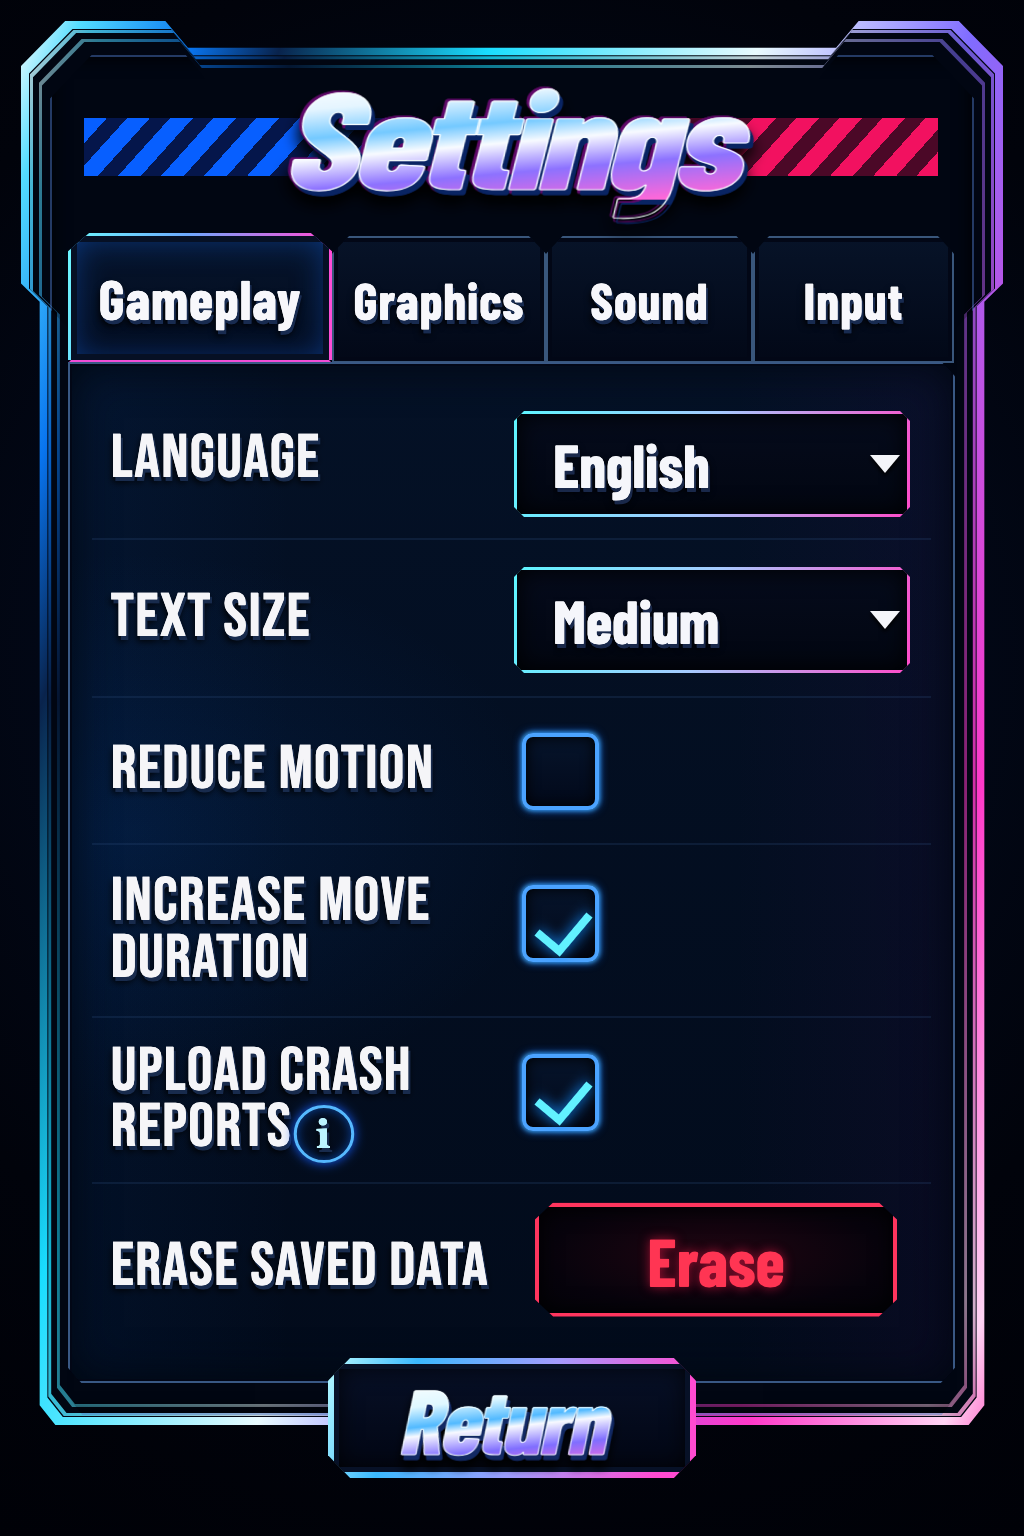
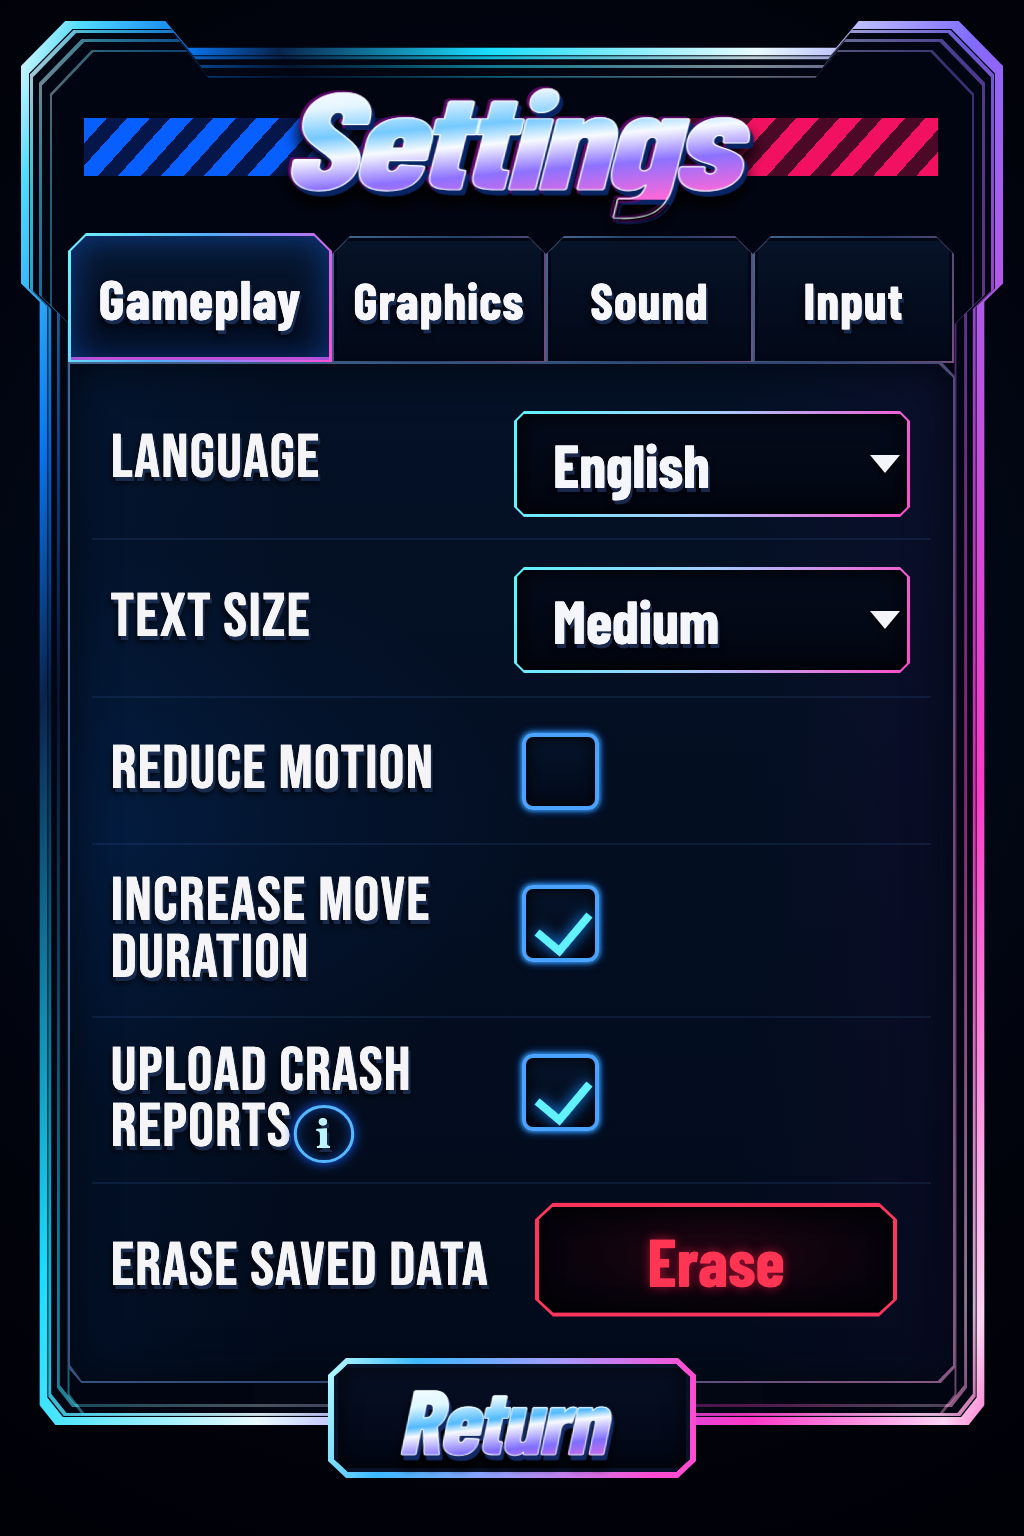
fix: render continuous neon borders

diff --git a/app/components/SettingsControls.tsx b/app/components/SettingsControls.tsx
@@ -1,5 +1,6 @@
 import type { ReactNode } from "react";
 import { displayFont } from "./styles";
+import { actionInnerClip, actionOuterClip, ClippedInset, controlInnerClip, controlOuterClip } from "./ClippedInset";
 
 type BaseProps = { label: ReactNode; first?: boolean; offsetY?: number; rowHeight?: number };
 
@@ -7,28 +8,49 @@ export function SelectControl({ label, options, value, onChange, first = false, 
   return (
     <SettingRow first={first} label={label} rowHeight={158}>
       <div style={{ position: "relative", display: "flex", alignItems: "center", height: "100%", transform: `translateY(${offsetY}px)` }}>
-        <select
-          aria-label={String(label)}
-          value={value}
-          onChange={(event) => onChange(event.target.value)}
+        <div
+          aria-hidden="true"
           style={{
+            position: "relative",
             boxSizing: "border-box",
             width: 396,
             height: 106,
-            appearance: "none",
-            border: "3px solid transparent",
-            clipPath: "polygon(10px 0, calc(100% - 10px) 0, 100% 10px, 100% calc(100% - 10px), calc(100% - 10px) 100%, 10px 100%, 0 calc(100% - 10px), 0 10px)",
-            padding: "0 74px 0 36px",
-            outline: 0,
+            display: "flex",
+            alignItems: "center",
+            clipPath: controlOuterClip,
+            padding: "0 74px 0 39px",
             color: "#f5f6fb",
-            background: "linear-gradient(180deg, #050b1c, #020611) padding-box, linear-gradient(106deg, #5df5ff, #a5cbff 48%, #ff4bc9) border-box",
-            boxShadow: "inset 0 0 24px #000, 0 0 12px rgba(42,103,255,.26)",
+            background: "linear-gradient(106deg, #5df5ff, #a5cbff 48%, #ff4bc9)",
+            filter: "drop-shadow(0 0 6px rgba(42,103,255,.38))",
             fontFamily: "'Barlow Condensed', Impact, sans-serif",
             fontWeight: 700,
             fontSize: 60,
             lineHeight: 1,
             textShadow: "2px 4px 0 #19284a, 0 4px 7px #000",
+            pointerEvents: "none",
+          }}
+        >
+          <ClippedInset inset={3} clipPath={controlInnerClip} background="linear-gradient(180deg, #050b1c, #020611)" boxShadow="inset 0 0 24px #000" />
+          <span style={{ position: "relative", zIndex: 1 }}>{value}</span>
+        </div>
+        <select
+          aria-label={String(label)}
+          value={value}
+          onChange={(event) => onChange(event.target.value)}
+          style={{
+            position: "absolute",
+            left: 0,
+            top: "50%",
+            zIndex: 3,
+            width: 396,
+            height: 106,
+            appearance: "none",
+            border: 0,
+            padding: 0,
+            outline: 0,
+            opacity: 0,
             cursor: "pointer",
+            transform: "translateY(-50%)",
           }}
         >
           {options.map((option) => <option key={option}>{option}</option>)}
@@ -55,8 +77,9 @@ export function ToggleControl({ checked, label, ariaLabel, onChange, withInfo = 
 export function EraseControl() {
   return (
     <SettingRow label="Erase Saved Data" last>
-      <button type="button" style={{ boxSizing: "border-box", width: 362, height: 114, marginLeft: 21, border: "4px solid #ff355e", clipPath: "polygon(5% 0, 95% 0, 100% 15%, 100% 85%, 95% 100%, 5% 100%, 0 85%, 0 15%)", color: "#ff3553", background: "radial-gradient(ellipse at 50% 45%, #200511, #07030c 67%, #020208)", boxShadow: "inset 0 0 22px #000, 0 0 15px rgba(255,20,78,.5)", fontFamily: "'Barlow Condensed', Impact, sans-serif", fontWeight: 700, fontSize: 67, textShadow: "0 0 11px rgba(255,25,76,.55)", cursor: "pointer", transform: "translateY(-8px)" }}>
-        Erase
+      <button type="button" style={{ position: "relative", boxSizing: "border-box", width: 362, height: 114, marginLeft: 21, border: 0, padding: 0, clipPath: actionOuterClip, color: "#ff3553", background: "#ff355e", filter: "drop-shadow(0 0 9px rgba(255,20,78,.55))", fontFamily: "'Barlow Condensed', Impact, sans-serif", fontWeight: 700, fontSize: 67, textShadow: "0 0 11px rgba(255,25,76,.55)", cursor: "pointer", transform: "translateY(-8px)" }}>
+        <ClippedInset inset={4} clipPath={actionInnerClip} background="radial-gradient(ellipse at 50% 45%, #200511, #07030c 67%, #020208)" boxShadow="inset 0 0 22px #000" />
+        <span style={{ position: "relative", zIndex: 1 }}>Erase</span>
       </button>
     </SettingRow>
   );

diff --git a/app/components/SettingsScreen.tsx b/app/components/SettingsScreen.tsx
@@ -5,6 +5,7 @@ import { ConceptFrame } from "./ConceptFrame";
 import { ReturnButton } from "./ReturnButton";
 import { EraseControl, SelectControl, ToggleControl } from "./SettingsControls";
 import { SettingsTabs } from "./SettingsTabs";
+import { ClippedInset } from "./ClippedInset";
 
 const DESIGN_WIDTH = 1024;
 const DESIGN_HEIGHT = 1536;
@@ -91,22 +92,27 @@ export function SettingsScreen() {
                 position: "relative",
                 boxSizing: "border-box",
                 height: 1021,
-                border: "2px solid #395884",
+                overflow: "hidden",
                 clipPath:
                   "polygon(0 0, 98.5% 0, 100% 1.4%, 100% 98.5%, 98.4% 100%, 1.5% 100%, 0 98.5%)",
-                padding: "16px 22px 30px",
-                background:
-                  "radial-gradient(ellipse at 7% 46%, rgba(5,83,184,.15), transparent 36%), linear-gradient(90deg, rgba(0,83,190,.07), transparent 25% 75%, rgba(126,0,145,.055)), linear-gradient(180deg, #041126 0%, #020b1b 100%)",
-                boxShadow:
-                  "inset 0 0 0 2px #020716, inset 0 0 45px #000710, 0 0 9px rgba(28,89,180,.28)",
+                background: "linear-gradient(110deg, #446690, #2c456f 54%, #875984)",
+                filter: "drop-shadow(0 0 5px rgba(28,89,180,.28))",
               }}
             >
-              <SelectControl first label="Language" value={language} options={["English", "Español", "Français", "Deutsch"]} onChange={setLanguage} offsetY={5} />
-              <SelectControl label="Text Size" value={textSize} options={["Small", "Medium", "Large"]} onChange={setTextSize} offsetY={2} />
-              <ToggleControl checked={reduceMotion} label="Reduce Motion" onChange={setReduceMotion} rowHeight={147} offsetY={1} />
-              <ToggleControl checked={increaseMoveDuration} label={<>Increase Move<br />Duration</>} ariaLabel="Increase Move Duration" onChange={setIncreaseMoveDuration} rowHeight={173} offsetY={-7} />
-              <ToggleControl checked={uploadCrashReports} label={<>Upload Crash<br />Reports</>} ariaLabel="Upload Crash Reports" onChange={setUploadCrashReports} withInfo rowHeight={166} offsetY={-8} />
-              <EraseControl />
+              <ClippedInset
+                inset={2}
+                clipPath="polygon(0 0, 98.35% 0, 100% 1.35%, 100% 98.45%, 98.25% 100%, 1.35% 100%, 0 98.4%)"
+                background="radial-gradient(ellipse at 7% 46%, rgba(5,83,184,.15), transparent 36%), linear-gradient(90deg, rgba(0,83,190,.07), transparent 25% 75%, rgba(126,0,145,.055)), linear-gradient(180deg, #041126 0%, #020b1b 100%)"
+                boxShadow="inset 0 0 45px #000710"
+              />
+              <div style={{ position: "relative", zIndex: 1, boxSizing: "border-box", height: "100%", padding: "18px 24px 32px" }}>
+                <SelectControl first label="Language" value={language} options={["English", "Español", "Français", "Deutsch"]} onChange={setLanguage} offsetY={5} />
+                <SelectControl label="Text Size" value={textSize} options={["Small", "Medium", "Large"]} onChange={setTextSize} offsetY={2} />
+                <ToggleControl checked={reduceMotion} label="Reduce Motion" onChange={setReduceMotion} rowHeight={147} offsetY={1} />
+                <ToggleControl checked={increaseMoveDuration} label={<>Increase Move<br />Duration</>} ariaLabel="Increase Move Duration" onChange={setIncreaseMoveDuration} rowHeight={173} offsetY={-7} />
+                <ToggleControl checked={uploadCrashReports} label={<>Upload Crash<br />Reports</>} ariaLabel="Upload Crash Reports" onChange={setUploadCrashReports} withInfo rowHeight={166} offsetY={-8} />
+                <EraseControl />
+              </div>
             </div>
           </div>
           <ReturnButton />

diff --git a/app/components/SettingsTabs.tsx b/app/components/SettingsTabs.tsx
@@ -1,4 +1,5 @@
 import { displayFont } from "./styles";
+import { ClippedInset, tabInnerClip, tabOuterClip } from "./ClippedInset";
 
 const tabs = ["Gameplay", "Graphics", "Sound", "Input"];
 
@@ -17,15 +18,14 @@ export function SettingsTabs() {
               boxSizing: "border-box",
               height: active ? 130 : 127,
               marginTop: active ? 0 : 3,
-              border: active ? "3px solid transparent" : "2px solid #39567b",
-              borderBottom: active ? "3px solid #f14dd7" : "2px solid #39567b",
-              padding: "0 4px",
-              clipPath: "polygon(8% 0, 92% 0, 100% 14%, 100% 100%, 0 100%, 0 14%)",
+              border: 0,
+              padding: 0,
+              clipPath: tabOuterClip,
               color: "#f7f7fb",
               background: active
-                ? "linear-gradient(180deg, #06152d, #030b1c) padding-box, linear-gradient(104deg, #6cf4ff 3%, #6caaff 40%, #ff4dd7 88%) border-box"
-                : "linear-gradient(180deg, #071328, #020817)",
-              boxShadow: active ? "inset 0 0 0 6px #061024, inset 0 0 34px rgba(20,98,226,.52), 0 0 19px rgba(35,133,255,.86)" : "inset 0 0 0 4px #020716",
+                ? "linear-gradient(112deg, #72f5ff 0%, #53afff 44%, #9a83ff 68%, #ff4ed3 100%)"
+                : "linear-gradient(110deg, #45678e, #253f67 52%, #75517d)",
+              filter: active ? "drop-shadow(0 0 10px rgba(35,133,255,.86))" : undefined,
               fontFamily: "'Barlow Condensed', Impact, sans-serif",
               fontWeight: 700,
               fontSize: active ? 55 : 51,
@@ -35,7 +35,13 @@ export function SettingsTabs() {
               cursor: "default",
             }}
           >
-            {tab}
+            <ClippedInset
+              inset={active ? 3 : 2}
+              clipPath={tabInnerClip}
+              background={active ? "linear-gradient(180deg, #071831, #030b1d)" : "linear-gradient(180deg, #071328, #020817)"}
+              boxShadow={active ? "inset 0 0 34px rgba(20,98,226,.52), inset 0 -3px 0 #f14dd7" : "inset 0 0 0 3px #020716"}
+            />
+            <span style={{ position: "relative", zIndex: 1 }}>{tab}</span>
           </button>
         );
       })}

diff --git a/app/components/ReturnButton.tsx b/app/components/ReturnButton.tsx
@@ -1,6 +1,9 @@
+import { actionInnerClip, actionOuterClip, ClippedInset } from "./ClippedInset";
+
 export function ReturnButton() {
   return (
-    <button type="button" style={{ position: "absolute", zIndex: 8, left: 328, top: 1358, boxSizing: "border-box", width: 368, height: 120, border: "6px solid transparent", padding: 0, clipPath: "polygon(6% 0, 94% 0, 100% 19%, 100% 81%, 94% 100%, 6% 100%, 0 81%, 0 19%)", color: "transparent", background: "linear-gradient(180deg, #071027, #020613) padding-box, linear-gradient(110deg, #b9fbff, #3bb9ff 22%, #a49cff 56%, #ff4bd1 90%) border-box", boxShadow: "inset 0 0 0 5px #071127, inset 0 0 27px #000, 0 0 17px rgba(58,154,255,.65)", cursor: "pointer" }}>
+    <button type="button" style={{ position: "absolute", zIndex: 8, left: 328, top: 1358, boxSizing: "border-box", width: 368, height: 120, border: 0, padding: 0, clipPath: actionOuterClip, color: "transparent", background: "linear-gradient(110deg, #b9fbff, #3bb9ff 22%, #a49cff 56%, #ff4bd1 90%)", filter: "drop-shadow(0 0 10px rgba(58,154,255,.65))", cursor: "pointer" }}>
+      <ClippedInset inset={6} clipPath={actionInnerClip} background="linear-gradient(180deg, #071027, #020613)" boxShadow="inset 0 0 0 4px #071127, inset 0 0 27px #000" />
       <span style={{ display: "inline-block", paddingRight: 12, color: "transparent", background: "linear-gradient(174deg, #fff 5%, #dff8ff 31%, #52baff 49%, #f8faff 57%, #806eff 77%, #ff6dda 100%)", backgroundClip: "text", WebkitBackgroundClip: "text", WebkitTextFillColor: "transparent", WebkitTextStroke: "1px #f7ffff", fontFamily: "'Barlow Condensed', Impact, sans-serif", fontSize: 91, fontStyle: "italic", fontWeight: 800, lineHeight: 1, letterSpacing: "-2px", transform: "skewX(-5deg)", filter: "drop-shadow(3px 5px 0 #122964) drop-shadow(0 7px 5px #000)" }}>
         Return
       </span>

diff --git a/app/components/ClippedInset.tsx b/app/components/ClippedInset.tsx
@@ -1,0 +1,47 @@
+import type { CSSProperties } from "react";
+
+export function ClippedInset({
+  background,
+  boxShadow,
+  clipPath,
+  inset,
+}: {
+  background: string;
+  boxShadow?: string;
+  clipPath: string;
+  inset: number;
+}) {
+  return (
+    <span
+      aria-hidden="true"
+      style={{
+        position: "absolute",
+        inset,
+        zIndex: 0,
+        display: "block",
+        clipPath,
+        background,
+        boxShadow,
+        pointerEvents: "none",
+      }}
+    />
+  );
+}
+
+export const controlOuterClip =
+  "polygon(10px 0, calc(100% - 10px) 0, 100% 10px, 100% calc(100% - 10px), calc(100% - 10px) 100%, 10px 100%, 0 calc(100% - 10px), 0 10px)";
+export const controlInnerClip =
+  "polygon(7px 0, calc(100% - 7px) 0, 100% 7px, 100% calc(100% - 7px), calc(100% - 7px) 100%, 7px 100%, 0 calc(100% - 7px), 0 7px)";
+export const actionOuterClip =
+  "polygon(18px 0, calc(100% - 18px) 0, 100% 17px, 100% calc(100% - 17px), calc(100% - 18px) 100%, 18px 100%, 0 calc(100% - 17px), 0 17px)";
+export const actionInnerClip =
+  "polygon(14px 0, calc(100% - 14px) 0, 100% 13px, 100% calc(100% - 13px), calc(100% - 14px) 100%, 14px 100%, 0 calc(100% - 13px), 0 13px)";
+export const tabOuterClip =
+  "polygon(18px 0, calc(100% - 18px) 0, 100% 18px, 100% 100%, 0 100%, 0 18px)";
+export const tabInnerClip =
+  "polygon(15px 0, calc(100% - 15px) 0, 100% 15px, 100% 100%, 0 100%, 0 15px)";
+
+export const coverStyle: CSSProperties = {
+  position: "relative",
+  zIndex: 1,
+};

diff --git a/app/components/ConceptFrame.tsx b/app/components/ConceptFrame.tsx
@@ -6,12 +6,12 @@ export function ConceptFrame() {
       <FrameLayer inset={21} thickness={8} opacity={1} />
       <FrameLayer inset={30} thickness={3} opacity={0.82} />
       <FrameLayer inset={39} thickness={3} opacity={0.54} />
-      <div style={{ position: "absolute", top: 55, bottom: 121, left: 50, right: 50, clipPath: frameClip, border: "2px solid rgba(80,121,201,.45)", boxShadow: "inset 0 0 18px #000, 0 0 7px rgba(60,126,255,.22)" }} />
+      <FrameLayer inset={50} thickness={2} opacity={0.42} bottom={121} />
     </div>
   );
 }
 
-function FrameLayer({ inset, thickness, opacity }: { inset: number; thickness: number; opacity: number }) {
+function FrameLayer({ inset, thickness, opacity, bottom }: { inset: number; thickness: number; opacity: number; bottom?: number }) {
   return (
     <div
       style={{
@@ -19,7 +19,7 @@ function FrameLayer({ inset, thickness, opacity }: { inset: number; thickness: n
         top: inset,
         left: inset,
         right: inset,
-        bottom: 111 + inset - 21,
+        bottom: bottom ?? 111 + inset - 21,
         padding: thickness,
         boxSizing: "border-box",
         clipPath: frameClip,
